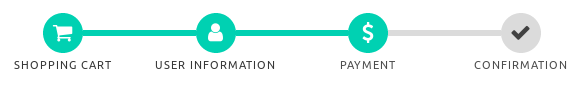
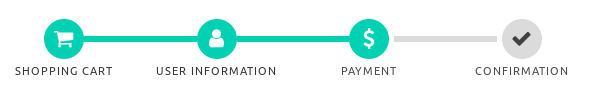
Update example to use more modifiers

diff --git a/_layouts/default.html b/_layouts/default.html
@@ -52,7 +52,7 @@
                       </div>
                     </a>
                   </li>
-                  <li class="steps-segment is-active">
+                  <li class="steps-segment is-active has-gaps">
                     <span class="steps-marker">
                       <span class="icon">
                         <i class="fa fa-usd"></i>

diff --git a/index.html b/index.html
@@ -835,7 +835,7 @@ variables:
         </div>
       </li>
       <li class="steps-segment">
-        <span class="steps-marker">
+        <span class="steps-marker is-hollow">
           <span class="icon">
             <i class="fa fa-check"></i>
           </span>
